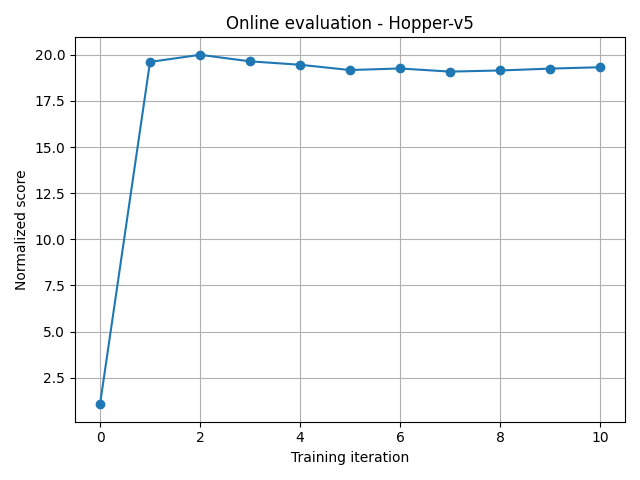
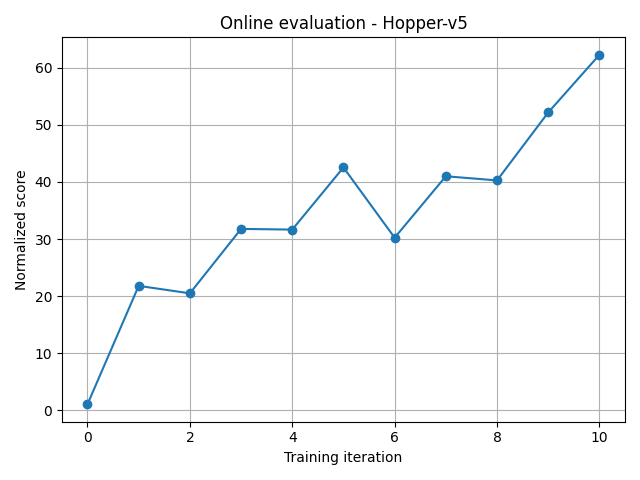
Add other envs and make scripts dir to launch experiments

diff --git a/RF/main.py b/RF/main.py
@@ -36,8 +36,15 @@ def experiment(variant):
     
     if dataset == "complete":
         variant["batch_size"] = 16
+
+    # Build a D4RL-style ID for locating the offline dataset on disk.
+    # Most tasks follow the original D4RL versioning, but some Minari-only
+    # datasets (e.g. hopper-simple-v0) are handled specially.
     if env == "kitchen":
         d4rl_env = f"{env}-{dataset}-v0"
+    elif env == "hopper" and dataset == "simple":
+        # Minari-only dataset; we save trajectories under this pseudo-D4RL ID.
+        d4rl_env = "hopper-simple-v0"
     elif env in ["pen", "door", "hammer", "relocate", "maze2d"]:
         d4rl_env = f"{env}-{dataset}-v1"
     elif env in ["halfcheetah", "hopper", "walker2d", "antmaze"]:
@@ -88,7 +95,7 @@ def experiment(variant):
     eval_dataset_for_norm = None
     use_minari_norm = False
 
-    # For AntMaze and Hopper, prefer the Minari-provided evaluation environment.
+    # For some tasks, prefer the Minari-provided evaluation environment.
     if env == "antmaze" and dataset == "medium-diverse":
         try:
             minari_id = "D4RL/antmaze/medium-diverse-v1"
@@ -107,9 +114,13 @@ def experiment(variant):
                 f"Warning: could not recover AntMaze evaluation env from Minari. "
                 f"Falling back to D4RL id '{d4rl_env}' if available. Error: {e}"
             )
-    elif env == "hopper" and dataset == "medium":
+    elif env == "hopper" and dataset in ["medium", "simple"]:
         try:
-            minari_id = "mujoco/hopper/medium-v0"
+            if dataset == "medium":
+                minari_id = "mujoco/hopper/medium-v0"
+            else:
+                # hopper-simple-v0 Minari dataset
+                minari_id = "mujoco/hopper/simple-v0"
             ds = minari.load_dataset(minari_id)
             eval_dataset_for_norm = ds
             eval_env = ds.recover_environment(
@@ -118,13 +129,74 @@ def experiment(variant):
             eval_env.reset(seed=seed)
             env_spec = ds._eval_env_spec or ds.spec.env_spec
             eval_env_id = env_spec.id if env_spec is not None else d4rl_env
-            # Hopper Minari datasets do not provide ref_min_score/ref_max_score,
-            # so we do not use Minari normalization here.
-            use_minari_norm = False
+            # For hopper-medium-v0, Minari currently does not provide
+            # ref_min_score/ref_max_score, so we do not use Minari
+            # normalization there. For hopper-simple-v0 we try Minari
+            # normalization (if available) via use_minari_norm.
+            if dataset == "simple":
+                use_minari_norm = True
+            else:
+                use_minari_norm = False
             print(f"Using Minari eval environment: {eval_env_id}")
         except Exception as e:
             print(
                 f"Warning: could not recover Hopper evaluation env from Minari. "
+                f"Falling back to D4RL id '{d4rl_env}' if available. Error: {e}"
+            )
+    elif env == "walker2d" and dataset == "medium":
+        try:
+            minari_id = "mujoco/walker2d/medium-v0"
+            ds = minari.load_dataset(minari_id)
+            eval_dataset_for_norm = ds
+            eval_env = ds.recover_environment(
+                eval_env=True, max_episode_steps=variant["max_eval_ep_len"]
+            )
+            eval_env.reset(seed=seed)
+            env_spec = ds._eval_env_spec or ds.spec.env_spec
+            eval_env_id = env_spec.id if env_spec is not None else d4rl_env
+            # Walker2d-medium-v0 has D4RL reference scores; we prefer
+            # Minari normalization when available.
+            use_minari_norm = True
+            print(f"Using Minari eval environment: {eval_env_id}")
+        except Exception as e:
+            print(
+                f"Warning: could not recover Walker2d evaluation env from Minari. "
+                f"Falling back to D4RL id '{d4rl_env}' if available. Error: {e}"
+            )
+    elif env == "maze2d" and dataset == "medium":
+        try:
+            minari_id = "D4RL/pointmaze/medium-v2"
+            ds = minari.load_dataset(minari_id)
+            eval_dataset_for_norm = ds
+            eval_env = ds.recover_environment(
+                eval_env=True, max_episode_steps=variant["max_eval_ep_len"]
+            )
+            eval_env.reset(seed=seed)
+            env_spec = ds._eval_env_spec or ds.spec.env_spec
+            eval_env_id = env_spec.id if env_spec is not None else d4rl_env
+            use_minari_norm = True
+            print(f"Using Minari eval environment: {eval_env_id}")
+        except Exception as e:
+            print(
+                f"Warning: could not recover Maze2d evaluation env from Minari. "
+                f"Falling back to D4RL id '{d4rl_env}' if available. Error: {e}"
+            )
+    elif env == "kitchen" and dataset == "mixed":
+        try:
+            minari_id = "D4RL/kitchen/mixed-v2"
+            ds = minari.load_dataset(minari_id)
+            eval_dataset_for_norm = ds
+            eval_env = ds.recover_environment(
+                eval_env=True, max_episode_steps=variant["max_eval_ep_len"]
+            )
+            eval_env.reset(seed=seed)
+            env_spec = ds._eval_env_spec or ds.spec.env_spec
+            eval_env_id = env_spec.id if env_spec is not None else d4rl_env
+            use_minari_norm = True
+            print(f"Using Minari eval environment: {eval_env_id}")
+        except Exception as e:
+            print(
+                f"Warning: could not recover Kitchen evaluation env from Minari. "
                 f"Falling back to D4RL id '{d4rl_env}' if available. Error: {e}"
             )
 
@@ -164,53 +236,80 @@ def experiment(variant):
                     num_eval_ep=variant["num_eval_ep"],
                     max_test_ep_len=variant["max_eval_ep_len"],
                 )
+                raw_return = float(return_mean)
+
+                normalized_score = None
+
                 # Prefer Minari normalization if reference scores are available.
                 if use_minari_norm and eval_dataset_for_norm is not None:
                     try:
                         norm_score = minari.get_normalized_score(
-                            eval_dataset_for_norm, np.array([return_mean])
+                            eval_dataset_for_norm, np.array([raw_return])
                         )[0]
-                        return norm_score * 100.0
+                        normalized_score = norm_score * 100.0
                     except ValueError:
-                        # Dataset does not have reference scores; fall through.
-                        pass
-                # For dense Mujoco tasks like hopper, compute D4RL-style
-                # normalized score manually using REF_MIN/REF_MAX from d4rl.
-                if env == "hopper" and dataset == "medium":
+                        # Dataset does not have reference scores; for
+                        # hopper-simple, fall back to normalizing by the
+                        # min/max returns observed in the offline dataset.
+                        if env == "hopper" and dataset == "simple":
+                            try:
+                                ret_max, _, _, ret_min = traj_dataset.get_return_stats()
+                                if ret_max > ret_min:
+                                    norm = (raw_return - ret_min) / (ret_max - ret_min)
+                                    normalized_score = norm * 100.0
+                            except Exception:
+                                pass
+                # For dense Mujoco tasks like hopper and walker2d, compute
+                # D4RL-style normalized score manually using REF_MIN/REF_MAX
+                # from d4rl for the classic D4RL medium datasets.
+                if (
+                    normalized_score is None
+                    and env in ["hopper", "walker2d"]
+                    and dataset == "medium"
+                ):
                     try:
                         from d4rl import infos as d4rl_infos
 
+                        key_medium = f"{env}-medium-v0"
+                        key_random = f"{env}-random-v0"
                         ref_min = d4rl_infos.REF_MIN_SCORE.get(
-                            "hopper-medium-v0",
-                            d4rl_infos.REF_MIN_SCORE["hopper-random-v0"],
+                            key_medium,
+                            d4rl_infos.REF_MIN_SCORE[key_random],
                         )
                         ref_max = d4rl_infos.REF_MAX_SCORE.get(
-                            "hopper-medium-v0",
-                            d4rl_infos.REF_MAX_SCORE["hopper-random-v0"],
+                            key_medium,
+                            d4rl_infos.REF_MAX_SCORE[key_random],
                         )
-                        norm = (return_mean - ref_min) / (ref_max - ref_min)
-                        return norm * 100.0
+                        norm = (raw_return - ref_min) / (ref_max - ref_min)
+                        normalized_score = norm * 100.0
                     except Exception:
                         pass
                 # Next, try D4RL-style env normalization if available.
-                if hasattr(eval_env, "get_normalized_score"):
-                    return eval_env.get_normalized_score(return_mean) * 100.0
-                # Fallback: return the raw average return.
-                return return_mean
+                if normalized_score is None and hasattr(eval_env, "get_normalized_score"):
+                    normalized_score = eval_env.get_normalized_score(raw_return) * 100.0
+                # Fallback: if normalization still not available, just use raw return.
+                if normalized_score is None:
+                    normalized_score = raw_return
+
+                return raw_return, normalized_score
 
     max_train_iters = variant["max_train_iters"]
     num_updates_per_iter = variant["num_updates_per_iter"]
     normalized_d4rl_score_list = []
+    raw_return_list = []
 
     # Optional initial evaluation before any training updates.
     if evaluator is not None:
         print("Running initial evaluation before training...")
-        init_score = evaluator(model=Trainer.model)
+        init_raw_return, init_score = evaluator(model=Trainer.model)
+        raw_return_list.append(init_raw_return)
         normalized_d4rl_score_list.append(init_score)
         if args.use_wandb:
             wandb.log(
                 data={
                     "evaluation/score": init_score,
+                    "evaluation/score_normalized": init_score,
+                    "evaluation/score_raw": init_raw_return,
                     "evaluation/iteration": 0,
                 }
             )
@@ -255,14 +354,17 @@ def experiment(variant):
                 )
         t2 = time.time()
         if evaluator is not None:
-            normalized_d4rl_score = evaluator(model=Trainer.model)
+            raw_return, normalized_d4rl_score = evaluator(model=Trainer.model)
             t3 = time.time()
+            raw_return_list.append(raw_return)
             normalized_d4rl_score_list.append(normalized_d4rl_score)
             if args.use_wandb:
                 wandb.log(
                     data={
                         "training/time": t2 - t1,
                         "evaluation/score": normalized_d4rl_score,
+                        "evaluation/score_normalized": normalized_d4rl_score,
+                        "evaluation/score_raw": raw_return,
                         "evaluation/time": t3 - t2,
                     }
                 )
@@ -272,7 +374,8 @@ def experiment(variant):
             f"Iteration {itr}/{max_train_iters} - "
             f"last training loss: {loss:.4f}"
             + (
-                f", last eval score: {normalized_d4rl_score:.2f}"
+                f", last eval raw return: {raw_return:.2f}, "
+                f"last eval normalized score: {normalized_d4rl_score:.2f}"
                 if evaluator is not None
                 else ""
             )
@@ -288,10 +391,16 @@ def experiment(variant):
     if normalized_d4rl_score_list:
         print("Evaluation scores over iterations:", normalized_d4rl_score_list)
 
-        # Plot evaluation curve if matplotlib is available.
+        if raw_return_list:
+            print("Raw returns over iterations:", raw_return_list)
+
+        # Plot evaluation curves if matplotlib is available.
         if plt is not None:
             os.makedirs("plots", exist_ok=True)
-            plot_path = os.path.join("plots", f"{d4rl_env}_eval.png")
+            # Use start_time_str to avoid overwriting previous runs.
+            plot_path_norm = os.path.join(
+                "plots", f"{d4rl_env}_eval_{start_time_str}.png"
+            )
             plt.figure()
             plt.plot(normalized_d4rl_score_list, marker="o")
             plt.xlabel("Training iteration")
@@ -299,9 +408,28 @@ def experiment(variant):
             plt.title(f"Online evaluation - {eval_env_id or d4rl_env}")
             plt.grid(True)
             plt.tight_layout()
-            plt.savefig(plot_path)
+            plt.savefig(plot_path_norm)
             plt.close()
-            print(f"Saved evaluation plot to {plot_path}")
+
+            # Raw return plot.
+            if raw_return_list:
+                plot_path_raw = os.path.join(
+                    "plots", f"{d4rl_env}_eval_raw_return_{start_time_str}.png"
+                )
+                plt.figure()
+                plt.plot(raw_return_list, marker="o")
+                plt.xlabel("Training iteration")
+                plt.ylabel("Average return per episode")
+                plt.title(
+                    f"Online evaluation (raw returns) - {eval_env_id or d4rl_env}"
+                )
+                plt.grid(True)
+                plt.tight_layout()
+                plt.savefig(plot_path_raw)
+                plt.close()
+                print(f"Saved raw return evaluation plot to {plot_path_raw}")
+
+            print(f"Saved normalized evaluation plot to {plot_path_norm}")
         else:
             print("matplotlib not available; skipping evaluation plot.")
     else:

diff --git a/RF/data/download_d4rl_datasets.py b/RF/data/download_d4rl_datasets.py
@@ -77,6 +77,15 @@ def download_d4rl_data() -> None:
     d4rl_to_minari = {
         "antmaze-medium-diverse-v2": "D4RL/antmaze/medium-diverse-v1",
         "hopper-medium-v2": "mujoco/hopper/medium-v0",
+        # Hopper Simple dataset (no direct D4RL counterpart).
+        # We treat "hopper-simple-v0" as a D4RL-style ID used only inside
+        # this codebase and save the converted trajectories under that name.
+        "hopper-simple-v0": "mujoco/hopper/simple-v0",
+        # Additional Mujoco tasks.
+        "walker2d-medium-v2": "mujoco/walker2d/medium-v0",
+        # Maze and Kitchen tasks from the D4RL suite.
+        "maze2d-medium-v1": "D4RL/pointmaze/medium-v2",
+        "kitchen-mixed-v0": "D4RL/kitchen/mixed-v2",
         # If you want more AntMaze variants, add them here, e.g.:
         # "antmaze-medium-play-v2": "D4RL/antmaze/medium-play-v1",
         # "antmaze-umaze-v2": "D4RL/antmaze/umaze-v1",
@@ -88,7 +97,7 @@ def download_d4rl_data() -> None:
     for d4rl_env_id, minari_id in d4rl_to_minari.items():
         pkl_file_path = os.path.join(data_dir, d4rl_env_id)
 
-        print(f"Processing dataset: {d4rl_env_id} (Minari ID: {minari_id})")
+        print(f"Processing D4RL dataset: {d4rl_env_id} (Minari ID: {minari_id})")
 
         try:
             # This requires minari[hf] and internet access the first time.

diff --git a/RF/data/d4rl_trajectory_dataset.py b/RF/data/d4rl_trajectory_dataset.py
@@ -72,14 +72,21 @@ class D4RLTrajectoryDataset(Dataset):
                 traj["observations"] - self.state_mean
             ) / self.state_std
 
-        # calculate returns max, mean, std
+        # calculate returns max, mean, std, min
         returns = np.array(returns)
         self.return_stats = [
             returns.max(),
             returns.mean(),
-            returns.std()
+            returns.std(),
+            returns.min(),
         ]
-        print(f"dataset size: {len(self.trajectories)}\nreturns max : {returns.max()}\nreturns mean: {returns.mean()}\nreturns std : {returns.std()}")
+        print(
+            "dataset size: " + str(len(self.trajectories))
+            + f"\nreturns max : {returns.max()}"
+            + f"\nreturns mean: {returns.mean()}"
+            + f"\nreturns std : {returns.std()}"
+            + f"\nreturns min : {returns.min()}"
+        )
 
     def get_state_stats(self):
         return self.state_mean, self.state_std
